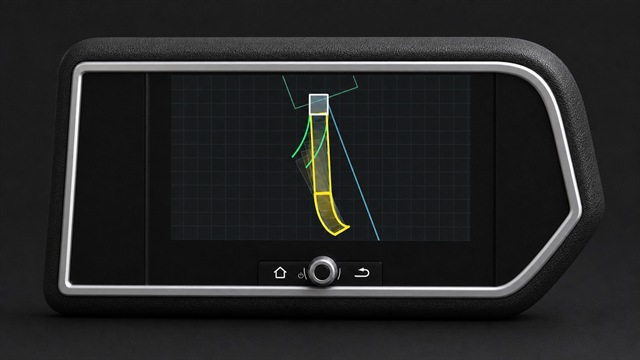
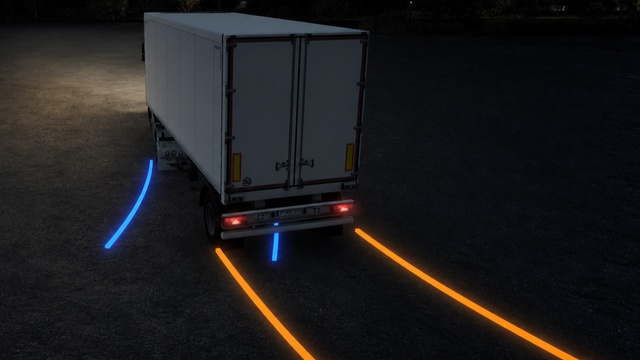
Finalize ATS Reverse Trajectory Predictor v0.10.8

diff --git a/mods/ATS_Reverse_Trajectory_Predictor/README.md b/mods/ATS_Reverse_Trajectory_Predictor/README.md
@@ -2,7 +2,7 @@
 
 A world-space reverse posture and trajectory assistant for the exact **American Truck Simulator 1.60.1.8** Windows x64 build.
 
-[Repository folder](https://github.com/yyysheng/ATSmods/tree/main/mods/ATS_Reverse_Trajectory_Predictor) | [GitHub release v0.10.8](https://github.com/yyysheng/ATSmods/releases/tag/reverse-trajectory-predictor-v0.10.8)
+[Repository folder](https://github.com/yyysheng/ATSmods/tree/main/mods/ATS_Reverse_Trajectory_Predictor) | [Steam Workshop](https://steamcommunity.com/sharedfiles/filedetails/?id=3792042919) | [GitHub release v0.10.8](https://github.com/yyysheng/ATSmods/releases/tag/reverse-trajectory-predictor-v0.10.8)
 
 When reverse gear is selected, the plug-in predicts tractor and trailer posture from official telemetry and creates collisionless frame models directly in the game world. The frames are normal Prism3D entities, so every game camera can see the same objects. No camera feed, render pass, depth buffer, constant buffer, or post-process overlay is read or modified.
 
@@ -32,7 +32,7 @@ When reverse gear is selected, the plug-in predicts tractor and trailer posture 
 
 ### Steam Workshop package
 
-1. Subscribe to the Steam Workshop item.
+1. Subscribe to the [Steam Workshop item](https://steamcommunity.com/sharedfiles/filedetails/?id=3792042919).
 2. Download [`ATS_Reverse_Trajectory_Predictor_v0.10.8_Workshop.zip`](https://github.com/yyysheng/ATSmods/releases/download/reverse-trajectory-predictor-v0.10.8/ATS_Reverse_Trajectory_Predictor_v0.10.8_Workshop.zip).
 3. Exit ATS, extract the package, and run `Install-Workshop.bat`.
 4. Enable **美卡倒车轨迹预测** in the ATS Mod Manager and install `Reverse Assist Anchor` in a cabin accessory slot.

diff --git a/README.md b/README.md
@@ -8,9 +8,8 @@ Each mod is isolated under `mods/` with its own source, documentation, packaging
 
 | Mod | Game version | Source | Download | Workshop |
 | --- | --- | --- | --- | --- |
-| ATS Reverse Trajectory Predictor v0.10.8 | 1.60.* | [Project folder](mods/ATS_Reverse_Trajectory_Predictor) | [v0.10.8](https://github.com/yyysheng/ATSmods/releases/tag/reverse-trajectory-predictor-v0.10.8) | Publishing |
+| ATS Reverse Trajectory Predictor v0.10.8 | 1.60.* | [Project folder](mods/ATS_Reverse_Trajectory_Predictor) | [v0.10.8](https://github.com/yyysheng/ATSmods/releases/tag/reverse-trajectory-predictor-v0.10.8) | [Steam Workshop](https://steamcommunity.com/sharedfiles/filedetails/?id=3792042919) |
 
 ## 中文
 
 这是 [yyysheng](https://github.com/yyysheng) 维护的 American Truck Simulator 模组集合。每个模组均位于 `mods/` 下的独立目录中，拥有各自的源码、说明、打包工具、创意工坊配置与版本记录。
-

diff --git a/mods/ATS_Reverse_Trajectory_Predictor/workshop/README.md b/mods/ATS_Reverse_Trajectory_Predictor/workshop/README.md
@@ -9,3 +9,4 @@ The generated `160_content` package is intentionally excluded from Git because i
 3. Select this `workshop` directory in SCS Workshop Uploader.
 4. Use `../assets/workshop_cover_640x360.jpg` as the preview image.
 
+The published item is available at [Steam Workshop](https://steamcommunity.com/sharedfiles/filedetails/?id=3792042919).
